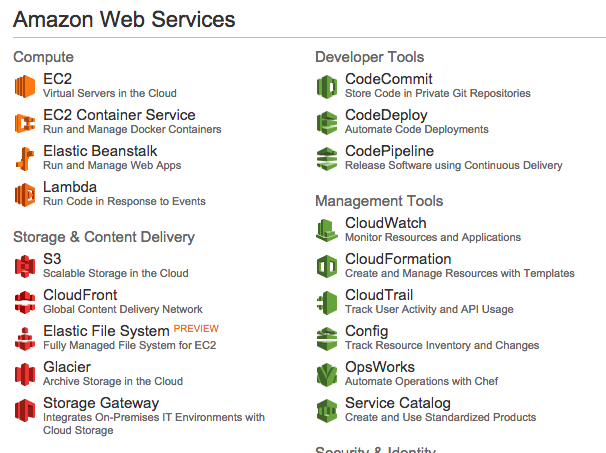
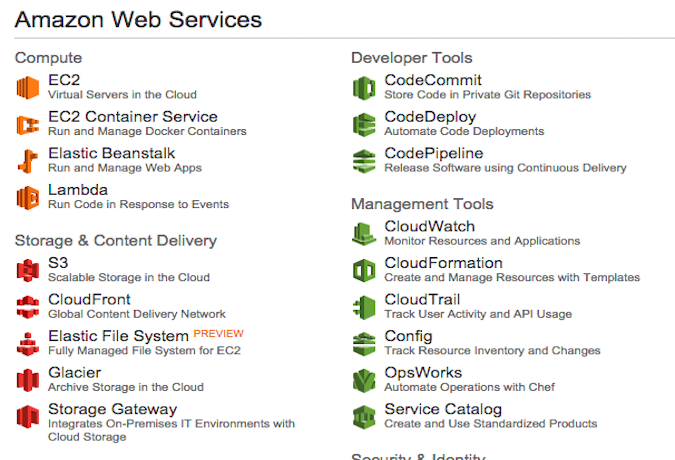
fix: diff browser...
* safari sluggish: changing the opacity of background image caused this
  issue
* firefox pic size: resized the pics

diff --git a/dist/css/myapp.css b/dist/css/myapp.css
@@ -1,1 +1,1 @@
-article,aside,details,figcaption,figure,footer,header,hgroup,main,nav,section,summary{display:block}audio,canvas,video{display:inline-block}audio:not([controls]){display:none;height:0}[hidden]{display:none}html{font-family:sans-serif;-ms-text-size-adjust:100%;-webkit-text-size-adjust:100%}body{margin:0}a:focus{outline:thin dotted}a:active,a:hover{outline:0}h1{font-size:2em;margin:.67em 0}abbr[title]{border-bottom:1px dotted}b,strong{font-weight:700}dfn{font-style:italic}hr{box-sizing:content-box;height:0}mark{background:#ff0;color:#000}code,kbd,pre,samp{font-family:monospace;font-size:1em}pre{white-space:pre-wrap}q{quotes:"\201C" "\201D" "\2018" "\2019"}small{font-size:80%}sub,sup{font-size:75%;line-height:0;position:relative;vertical-align:baseline}sup{top:-.5em}sub{bottom:-.25em}img{border:0}svg:not(:root){overflow:hidden}figure{margin:0}fieldset{border:1px solid silver;margin:0 2px;padding:.35em .625em .75em}legend{border:0;padding:0}button,input,select,textarea{font-family:inherit;font-size:100%;margin:0}button,input{line-height:normal}button,select{text-transform:none}button,html input[type=button],input[type=reset],input[type=submit]{-webkit-appearance:button;cursor:pointer}button[disabled],html input[disabled]{cursor:default}input[type=checkbox],input[type=radio]{box-sizing:border-box;padding:0}input[type=search]{-webkit-appearance:textfield;box-sizing:content-box}input[type=search]::-webkit-search-cancel-button,input[type=search]::-webkit-search-decoration{-webkit-appearance:none}button::-moz-focus-inner,input::-moz-focus-inner{border:0;padding:0}textarea{overflow:auto;vertical-align:top}table{border-collapse:collapse;border-spacing:0}body{font:100% Lucida Grande,Helvetica,Arial,sans-serif}.parallax{-webkit-perspective:300px;perspective:300px;overflow-y:auto;overflow-x:hidden}.parallax,.parallax .group{height:100vh;-webkit-transform-style:preserve-3d;transform-style:preserve-3d}.parallax .group{position:relative}.parallax .group .layer{position:absolute;top:0;left:0;bottom:0;right:0}.parallax .group .layer .content{position:absolute;left:50%;top:50%;text-align:center;-webkit-transform:translate(-50%,-50%);transform:translate(-50%,-50%)}.parallax .group .fore{-webkit-transform:translateZ(100px) scale(0.67);transform:translateZ(100px) scale(0.67)}.parallax .group .base{-webkit-transform:translateZ(0);transform:translateZ(0)}.parallax .group .back{-webkit-transform:translateZ(-100px) scale(1.33);transform:translateZ(-100px) scale(1.33)}.parallax .group .deep{-webkit-transform:translateZ(-300px) scale(2);transform:translateZ(-300px) scale(2)}body,html{overflow:hidden}#group2{z-index:1;height:50vh}#group2 .base{background-color:#000}#group3{z-index:2}#group3 .base{background-color:#f4d0ac}#group4{z-index:1}#group4 .deep{background-color:#00b3ff}#group5{z-index:2}#group5 .base{background-color:#e67e22}#group6{z-index:1}#group6 .deep{background-color:#9b59b6}#group7{z-index:2}#group7 .base{background-color:#2ecc71}#group8{z-index:1}#group8 .deep{background-color:#3498db}.debug{position:fixed;top:0;left:.5em;z-index:3;background:rgba(0,0,0,.85);color:#fff;padding:.5em;border-radius:0 0 5px 5px}.debug-on #app{background-color:#fff}.debug-on .group{-webkit-transform:translate3d(800px,0,-800px) rotateY(30deg);transform:translate3d(700px,0,-800px) rotateY(30deg)}.debug-on .layer{box-shadow:0 0 0 2px #000;opacity:.9}.group{transition:-webkit-transform .5s;transition:transform .5s}#projects{list-style:none;position:relative;overflow:hidden;height:500px;height:80vh;width:100%}#projects>li{width:100%;height:100%;position:absolute;-webkit-perspective:100pc;perspective:100pc}#projects>li .description{position:relative;width:45%;padding:2em 1em;font-size:1.5em;z-index:4;opacity:0}#projects>li .description h2{font-size:2em}#projects>li .pics{visibility:hidden;position:absolute;left:50%;top:50%;width:50%;-webkit-transform-style:preserve-3d;transform-style:preserve-3d;-webkit-transform:translateY(-50%) rotateX(60deg) rotateZ(35deg);transform:translateY(-50%) rotateX(60deg) rotateZ(35deg)}#projects>li .pics a{outline:1px solid transparent}#projects>li .pics a,#projects>li .pics a>img{display:block;max-width:100%;margin:0 auto}#projects>li .pics a:first-child{margin-bottom:30px}#projects>li .pics.row a{width:48%;margin:0}#projects>li .pics.row a:nth-child(2){position:absolute;left:52%;top:0}#projects .description{transition:opacity 4s}#projects .show .pics{visibility:visible}#projects .show .description{opacity:1}#projects .hide .description{opacity:0}#projects .moveUpOut .pics a{-webkit-animation:i 1.5s both;animation:i 1.5s both}#projects .moveDownOut .pics a:nth-child(2),#projects .moveUpOut .pics a:nth-child(2){-webkit-animation-delay:.25s;animation-delay:.25s}#projects .moveUpIn .pics a{-webkit-animation:j 1.5s .5s both;animation:j 1.5s .5s both}#projects .moveDownIn .pics a:nth-child(2),#projects .moveUpIn .pics a:nth-child(2){-webkit-animation-delay:.75s;animation-delay:.75s}#projects .moveDownOut .pics a{-webkit-animation:k 1.5s both;animation:k 1.5s both}#projects .moveDownIn .pics a{-webkit-animation:l 1.5s .5s both;animation:l 1.5s .5s both}#projects .slideLeftOut .pics a{-webkit-animation:a 1.5s both;animation:a 1.5s both}#projects .slideLeftIn .pics a{-webkit-animation:e 1.5s .5s both;animation:e 1.5s .5s both}#projects .slideRightOut .pics a{-webkit-animation:b 1.5s both;animation:b 1.5s both}#projects .slideRightIn .pics a{-webkit-animation:f 1.5s .5s both;animation:f 1.5s .5s both}#projects .slideUpOut .pics a{-webkit-animation:c 1.5s both;animation:c 1.5s both}#projects .slideUpIn .pics a{-webkit-animation:g 1.5s .5s both;animation:g 1.5s .5s both}#projects .slideRightIn .pics.col a:nth-child(2),#projects .slideRightIn .pics.row a:first-child{-webkit-animation-delay:.75s;animation-delay:.75s}#projects .slideRightOut .pics.col a:nth-child(2),#projects .slideRightOut .pics.row a:first-child{-webkit-animation-delay:.25s;animation-delay:.25s}#projects .slideLeftIn .pics a:nth-child(2){-webkit-animation-delay:.75s;animation-delay:.75s}#projects .slideLeftOut .pics a:nth-child(2){-webkit-animation-delay:.25s;animation-delay:.25s}#projects .slideUpIn .pics a:nth-child(2){-webkit-animation-delay:.75s;animation-delay:.75s}#projects .slideUpOut .pics a:nth-child(2){-webkit-animation-delay:.25s;animation-delay:.25s}#projects .slideDownIn .pics a{-webkit-animation:h 1.5s .5s both;animation:h 1.5s .5s both}#projects .slideDownIn .pics.col a:first-child,#projects .slideDownIn .pics.row a:nth-child(2){-webkit-animation-delay:.75s;animation-delay:.75s}#projects .slideDownOut .pics a{-webkit-animation:d 1.5s both;animation:d 1.5s both}#projects .slideDownOut .pics.col a:first-child,#projects .slideDownOut .pics.row a:nth-child(2){-webkit-animation-delay:.25s;animation-delay:.25s}#projects .cubic{-webkit-animation-timing-function:cubic-bezier(1,0,0,1);animation-timing-function:cubic-bezier(1,0,0,1)}@-webkit-keyframes a{0%{-webkit-transform:translateX(0px);transform:translateX(0px)}25%{-webkit-transform:translateX(30px);transform:translateX(30px);-webkit-animation-timing-function:cubic-bezier(1,0,0,1);animation-timing-function:cubic-bezier(1,0,0,1)}to{-webkit-transform:translateX(-3000px);transform:translateX(-3000px)}}@keyframes a{0%{-webkit-transform:translateX(0px);transform:translateX(0px)}25%{-webkit-transform:translateX(30px);transform:translateX(30px);-webkit-animation-timing-function:cubic-bezier(1,0,0,1);animation-timing-function:cubic-bezier(1,0,0,1)}to{-webkit-transform:translateX(-3000px);transform:translateX(-3000px)}}@-webkit-keyframes b{0%{-webkit-transform:translateX(0px);transform:translateX(0px)}25%{-webkit-transform:translateX(-30px);transform:translateX(-30px);-webkit-animation-timing-function:cubic-bezier(1,0,0,1);animation-timing-function:cubic-bezier(1,0,0,1)}to{-webkit-transform:translateX(3000px);transform:translateX(3000px)}}@keyframes b{0%{-webkit-transform:translateX(0px);transform:translateX(0px)}25%{-webkit-transform:translateX(-30px);transform:translateX(-30px);-webkit-animation-timing-function:cubic-bezier(1,0,0,1);animation-timing-function:cubic-bezier(1,0,0,1)}to{-webkit-transform:translateX(3000px);transform:translateX(3000px)}}@-webkit-keyframes c{0%{-webkit-transform:translateY(0px);transform:translateY(0px)}25%{-webkit-transform:translateY(30px);transform:translateY(30px);-webkit-animation-timing-function:cubic-bezier(1,0,0,1);animation-timing-function:cubic-bezier(1,0,0,1)}to{-webkit-transform:translateY(-3000px);transform:translateY(-3000px)}}@keyframes c{0%{-webkit-transform:translateY(0px);transform:translateY(0px)}25%{-webkit-transform:translateY(30px);transform:translateY(30px);-webkit-animation-timing-function:cubic-bezier(1,0,0,1);animation-timing-function:cubic-bezier(1,0,0,1)}to{-webkit-transform:translateY(-3000px);transform:translateY(-3000px)}}@-webkit-keyframes d{0%{-webkit-transform:translateY(0px);transform:translateY(0px)}25%{-webkit-transform:translateY(-30px);transform:translateY(-30px);-webkit-animation-timing-function:cubic-bezier(1,0,0,1);animation-timing-function:cubic-bezier(1,0,0,1)}to{-webkit-transform:translateY(3000px);transform:translateY(3000px)}}@keyframes d{0%{-webkit-transform:translateY(0px);transform:translateY(0px)}25%{-webkit-transform:translateY(-30px);transform:translateY(-30px);-webkit-animation-timing-function:cubic-bezier(1,0,0,1);animation-timing-function:cubic-bezier(1,0,0,1)}to{-webkit-transform:translateY(3000px);transform:translateY(3000px)}}@-webkit-keyframes e{0%{-webkit-transform:translateX(3000px);transform:translateX(3000px);-webkit-animation-timing-function:cubic-bezier(1,0,0,1);animation-timing-function:cubic-bezier(1,0,0,1)}75%{-webkit-transform:translateX(-30px);transform:translateX(-30px)}to{-webkit-transform:translateX(0px);transform:translateX(0px)}}@keyframes e{0%{-webkit-transform:translateX(3000px);transform:translateX(3000px);-webkit-animation-timing-function:cubic-bezier(1,0,0,1);animation-timing-function:cubic-bezier(1,0,0,1)}75%{-webkit-transform:translateX(-30px);transform:translateX(-30px)}to{-webkit-transform:translateX(0px);transform:translateX(0px)}}@-webkit-keyframes f{0%{-webkit-transform:translateX(-3000px);transform:translateX(-3000px);-webkit-animation-timing-function:cubic-bezier(1,0,0,1);animation-timing-function:cubic-bezier(1,0,0,1)}75%{-webkit-transform:translateX(30px);transform:translateX(30px)}to{-webkit-transform:translateX(0px);transform:translateX(0px)}}@keyframes f{0%{-webkit-transform:translateX(-3000px);transform:translateX(-3000px);-webkit-animation-timing-function:cubic-bezier(1,0,0,1);animation-timing-function:cubic-bezier(1,0,0,1)}75%{-webkit-transform:translateX(30px);transform:translateX(30px)}to{-webkit-transform:translateX(0px);transform:translateX(0px)}}@-webkit-keyframes g{0%{-webkit-transform:translateY(3000px);transform:translateY(3000px);-webkit-animation-timing-function:cubic-bezier(1,0,0,1);animation-timing-function:cubic-bezier(1,0,0,1)}85%{-webkit-transform:translateY(-30px);transform:translateY(-30px)}to{-webkit-transform:translateY(0px);transform:translateY(0px)}}@keyframes g{0%{-webkit-transform:translateY(3000px);transform:translateY(3000px);-webkit-animation-timing-function:cubic-bezier(1,0,0,1);animation-timing-function:cubic-bezier(1,0,0,1)}85%{-webkit-transform:translateY(-30px);transform:translateY(-30px)}to{-webkit-transform:translateY(0px);transform:translateY(0px)}}@-webkit-keyframes h{0%{-webkit-transform:translateY(-3000px);transform:translateY(-3000px);-webkit-animation-timing-function:cubic-bezier(1,0,0,1);animation-timing-function:cubic-bezier(1,0,0,1)}85%{-webkit-transform:translateY(30px);transform:translateY(30px)}to{-webkit-transform:translateY(0px);transform:translateY(0px)}}@keyframes h{0%{-webkit-transform:translateY(-3000px);transform:translateY(-3000px);-webkit-animation-timing-function:cubic-bezier(1,0,0,1);animation-timing-function:cubic-bezier(1,0,0,1)}85%{-webkit-transform:translateY(30px);transform:translateY(30px)}to{-webkit-transform:translateY(0px);transform:translateY(0px)}}@-webkit-keyframes i{0%{-webkit-transform:translateZ(0px);transform:translateZ(0px)}25%{-webkit-animation-timing-function:cubic-bezier(1,0,0,1);animation-timing-function:cubic-bezier(1,0,0,1);-webkit-transform:translateZ(-30px);transform:translateZ(-30px)}to{-webkit-transform:translateZ(3000px);transform:translateZ(3000px)}}@keyframes i{0%{-webkit-transform:translateZ(0px);transform:translateZ(0px)}25%{-webkit-animation-timing-function:cubic-bezier(1,0,0,1);animation-timing-function:cubic-bezier(1,0,0,1);-webkit-transform:translateZ(-30px);transform:translateZ(-30px)}to{-webkit-transform:translateZ(3000px);transform:translateZ(3000px)}}@-webkit-keyframes j{0%{animatin-timing-function:cubic-bezier(1,0,0,1);-webkit-transform:translateZ(-3000px);transform:translateZ(-3000px)}75%{-webkit-transform:translateZ(30px);transform:translateZ(30px)}to{-webkit-transform:translateZ(0px);transform:translateZ(0px)}}@keyframes j{0%{animatin-timing-function:cubic-bezier(1,0,0,1);-webkit-transform:translateZ(-3000px);transform:translateZ(-3000px)}75%{-webkit-transform:translateZ(30px);transform:translateZ(30px)}to{-webkit-transform:translateZ(0px);transform:translateZ(0px)}}@-webkit-keyframes k{0%{-webkit-transform:translateZ(0px);transform:translateZ(0px)}25%{-webkit-animation-timing-function:cubic-bezier(1,0,0,1);animation-timing-function:cubic-bezier(1,0,0,1);-webkit-transform:translateZ(30px);transform:translateZ(30px)}to{-webkit-transform:translateZ(-3000px);transform:translateZ(-3000px)}}@keyframes k{0%{-webkit-transform:translateZ(0px);transform:translateZ(0px)}25%{-webkit-animation-timing-function:cubic-bezier(1,0,0,1);animation-timing-function:cubic-bezier(1,0,0,1);-webkit-transform:translateZ(30px);transform:translateZ(30px)}to{-webkit-transform:translateZ(-3000px);transform:translateZ(-3000px)}}@-webkit-keyframes l{0%{-webkit-animation-timing-function:cubic-bezier(1,0,0,1);animation-timing-function:cubic-bezier(1,0,0,1);-webkit-transform:translateZ(3000px);transform:translateZ(3000px)}75%{-webkit-transform:translateZ(-30px);transform:translateZ(-30px)}to{-webkit-transform:translateZ(0px);transform:translateZ(0px)}}@keyframes l{0%{-webkit-animation-timing-function:cubic-bezier(1,0,0,1);animation-timing-function:cubic-bezier(1,0,0,1);-webkit-transform:translateZ(3000px);transform:translateZ(3000px)}75%{-webkit-transform:translateZ(-30px);transform:translateZ(-30px)}to{-webkit-transform:translateZ(0px);transform:translateZ(0px)}}#slideshow nav{text-align:center;margin-top:20px}#slideshow nav span{display:inline-block;width:60px;height:5px;border-top:15px solid transparent;border-bottom:15px solid transparent;background-clip:padding-box;background-color:#ddd;cursor:pointer;margin:0 3px;transition:background-color .2s}#slideshow nav span:hover{background-color:#333}#slideshow nav span.current{background-color:#aaa}.common .pics{position:absolute;right:47%;top:50%;padding-left:10%;-webkit-transform:translateY(-50%);transform:translateY(-50%)}.common .pics img{max-width:100%;max-height:80vh;border:10px solid rgba(236,240,241,.6);border-radius:5%}.common .description{font-size:1.3em;width:35%;position:absolute;top:50%;left:60%;-webkit-transform:translateY(-50%);transform:translateY(-50%)}#app{background-color:#2c3e50;color:#fff}
+article,aside,details,figcaption,figure,footer,header,hgroup,main,nav,section,summary{display:block}audio,canvas,video{display:inline-block}audio:not([controls]){display:none;height:0}[hidden]{display:none}html{font-family:sans-serif;-ms-text-size-adjust:100%;-webkit-text-size-adjust:100%}body{margin:0}a:focus{outline:thin dotted}a:active,a:hover{outline:0}h1{font-size:2em;margin:.67em 0}abbr[title]{border-bottom:1px dotted}b,strong{font-weight:700}dfn{font-style:italic}hr{box-sizing:content-box;height:0}mark{background:#ff0;color:#000}code,kbd,pre,samp{font-family:monospace;font-size:1em}pre{white-space:pre-wrap}q{quotes:"\201C" "\201D" "\2018" "\2019"}small{font-size:80%}sub,sup{font-size:75%;line-height:0;position:relative;vertical-align:baseline}sup{top:-.5em}sub{bottom:-.25em}img{border:0}svg:not(:root){overflow:hidden}figure{margin:0}fieldset{border:1px solid silver;margin:0 2px;padding:.35em .625em .75em}legend{border:0;padding:0}button,input,select,textarea{font-family:inherit;font-size:100%;margin:0}button,input{line-height:normal}button,select{text-transform:none}button,html input[type=button],input[type=reset],input[type=submit]{-webkit-appearance:button;cursor:pointer}button[disabled],html input[disabled]{cursor:default}input[type=checkbox],input[type=radio]{box-sizing:border-box;padding:0}input[type=search]{-webkit-appearance:textfield;box-sizing:content-box}input[type=search]::-webkit-search-cancel-button,input[type=search]::-webkit-search-decoration{-webkit-appearance:none}button::-moz-focus-inner,input::-moz-focus-inner{border:0;padding:0}textarea{overflow:auto;vertical-align:top}table{border-collapse:collapse;border-spacing:0}body{font:100% Lucida Grande,Helvetica,Arial,sans-serif}.parallax{height:500px;height:100vh;-webkit-perspective:300px;perspective:300px;overflow-y:auto;overflow-x:hidden}.parallax,.parallax .group{-webkit-transform-style:preserve-3d;transform-style:preserve-3d}.parallax .group{position:relative;heigth:500px;height:100vh}.parallax .group .layer{position:absolute;top:0;left:0;bottom:0;right:0}.parallax .group .fore{-webkit-transform:translateZ(100px) scale(0.67);transform:translateZ(100px) scale(0.67)}.parallax .group .base{-webkit-transform:translateZ(0);transform:translateZ(0)}.parallax .group .back{-webkit-transform:translateZ(-100px) scale(1.33);transform:translateZ(-100px) scale(1.33)}.parallax .group .deep{-webkit-transform:translateZ(-300px) scale(2);transform:translateZ(-300px) scale(2)}body,html{overflow:hidden}#group1{z-index:2}#group1 .base{-webkit-transform:translateZ(-60px) scale(1.2);transform:translateZ(-60px) scale(1.2)}#group1 .bottom{background-image:url(../img/mt_blur.jpg);background-size:100% 500px;background-size:100vw 100vh}#group2{z-index:1;height:50vh}#group2 .base{background-color:#000}#group3{z-index:2}#group3 .base{background-color:#f4d0ac}#group4{z-index:1}#group4 .deep{background-color:#00b3ff}#group5{z-index:2}#group5 .base{background-color:#e67e22}#group6{z-index:1}#group6 .deep{background-color:#9b59b6}#group7{z-index:2}#group7 .base{background-color:#2ecc71}#group8{z-index:1}#group8 .deep{background-color:#3498db}.debug{position:fixed;top:0;left:.5em;z-index:3;background:rgba(0,0,0,.85);color:#fff;padding:.5em;border-radius:0 0 5px 5px}.debug-on #app{background-color:#fff}.debug-on .group{-webkit-transform:translate3d(800px,0,-800px) rotateY(30deg);transform:translate3d(700px,0,-800px) rotateY(30deg)}.debug-on .layer{box-shadow:0 0 0 2px #000;opacity:.9}.group{transition:-webkit-transform .5s;transition:transform .5s}#projects{list-style:none;position:relative;overflow:hidden;height:500px;height:80vh;width:100%}#projects>li{width:100%;height:100%;position:absolute;-webkit-perspective:100pc;perspective:100pc}#projects>li .description{position:relative;width:45%;padding:2em 1em;font-size:1.5em;z-index:4;opacity:0}#projects>li .description h2{font-size:2em}#projects>li .pics{visibility:hidden;position:absolute;left:50%;top:50%;width:50%;-webkit-transform-style:preserve-3d;transform-style:preserve-3d;-webkit-transform:translateY(-50%) rotateX(60deg) rotateZ(35deg);transform:translateY(-50%) rotateX(60deg) rotateZ(35deg)}#projects>li .pics a{outline:1px solid transparent}#projects>li .pics a,#projects>li .pics a>img{display:block;max-width:100%;margin:0 auto}#projects>li .pics a:first-child{margin-bottom:30px}#projects>li .pics.row a{width:48%;margin:0}#projects>li .pics.row a:nth-child(2){position:absolute;left:52%;top:0}#projects .description{transition:opacity 4s}#projects .show .pics{visibility:visible}#projects .show .description{opacity:1}#projects .hide .description{opacity:0}#projects .moveUpOut .pics a{-webkit-animation:i 1.5s both;animation:i 1.5s both}#projects .moveDownOut .pics a:nth-child(2),#projects .moveUpOut .pics a:nth-child(2){-webkit-animation-delay:.25s;animation-delay:.25s}#projects .moveUpIn .pics a{-webkit-animation:j 1.5s .5s both;animation:j 1.5s .5s both}#projects .moveDownIn .pics a:nth-child(2),#projects .moveUpIn .pics a:nth-child(2){-webkit-animation-delay:.75s;animation-delay:.75s}#projects .moveDownOut .pics a{-webkit-animation:k 1.5s both;animation:k 1.5s both}#projects .moveDownIn .pics a{-webkit-animation:l 1.5s .5s both;animation:l 1.5s .5s both}#projects .slideLeftOut .pics a{-webkit-animation:a 1.5s both;animation:a 1.5s both}#projects .slideLeftIn .pics a{-webkit-animation:e 1.5s .5s both;animation:e 1.5s .5s both}#projects .slideRightOut .pics a{-webkit-animation:b 1.5s both;animation:b 1.5s both}#projects .slideRightIn .pics a{-webkit-animation:f 1.5s .5s both;animation:f 1.5s .5s both}#projects .slideUpOut .pics a{-webkit-animation:c 1.5s both;animation:c 1.5s both}#projects .slideUpIn .pics a{-webkit-animation:g 1.5s .5s both;animation:g 1.5s .5s both}#projects .slideRightIn .pics.col a:nth-child(2),#projects .slideRightIn .pics.row a:first-child{-webkit-animation-delay:.75s;animation-delay:.75s}#projects .slideRightOut .pics.col a:nth-child(2),#projects .slideRightOut .pics.row a:first-child{-webkit-animation-delay:.25s;animation-delay:.25s}#projects .slideLeftIn .pics a:nth-child(2){-webkit-animation-delay:.75s;animation-delay:.75s}#projects .slideLeftOut .pics a:nth-child(2){-webkit-animation-delay:.25s;animation-delay:.25s}#projects .slideUpIn .pics a:nth-child(2){-webkit-animation-delay:.75s;animation-delay:.75s}#projects .slideUpOut .pics a:nth-child(2){-webkit-animation-delay:.25s;animation-delay:.25s}#projects .slideDownIn .pics a{-webkit-animation:h 1.5s .5s both;animation:h 1.5s .5s both}#projects .slideDownIn .pics.col a:first-child,#projects .slideDownIn .pics.row a:nth-child(2){-webkit-animation-delay:.75s;animation-delay:.75s}#projects .slideDownOut .pics a{-webkit-animation:d 1.5s both;animation:d 1.5s both}#projects .slideDownOut .pics.col a:first-child,#projects .slideDownOut .pics.row a:nth-child(2){-webkit-animation-delay:.25s;animation-delay:.25s}#projects .cubic{-webkit-animation-timing-function:cubic-bezier(1,0,0,1);animation-timing-function:cubic-bezier(1,0,0,1)}@-webkit-keyframes a{0%{-webkit-transform:translateX(0px);transform:translateX(0px)}25%{-webkit-transform:translateX(30px);transform:translateX(30px);-webkit-animation-timing-function:cubic-bezier(1,0,0,1);animation-timing-function:cubic-bezier(1,0,0,1)}to{-webkit-transform:translateX(-3000px);transform:translateX(-3000px)}}@keyframes a{0%{-webkit-transform:translateX(0px);transform:translateX(0px)}25%{-webkit-transform:translateX(30px);transform:translateX(30px);-webkit-animation-timing-function:cubic-bezier(1,0,0,1);animation-timing-function:cubic-bezier(1,0,0,1)}to{-webkit-transform:translateX(-3000px);transform:translateX(-3000px)}}@-webkit-keyframes b{0%{-webkit-transform:translateX(0px);transform:translateX(0px)}25%{-webkit-transform:translateX(-30px);transform:translateX(-30px);-webkit-animation-timing-function:cubic-bezier(1,0,0,1);animation-timing-function:cubic-bezier(1,0,0,1)}to{-webkit-transform:translateX(3000px);transform:translateX(3000px)}}@keyframes b{0%{-webkit-transform:translateX(0px);transform:translateX(0px)}25%{-webkit-transform:translateX(-30px);transform:translateX(-30px);-webkit-animation-timing-function:cubic-bezier(1,0,0,1);animation-timing-function:cubic-bezier(1,0,0,1)}to{-webkit-transform:translateX(3000px);transform:translateX(3000px)}}@-webkit-keyframes c{0%{-webkit-transform:translateY(0px);transform:translateY(0px)}25%{-webkit-transform:translateY(30px);transform:translateY(30px);-webkit-animation-timing-function:cubic-bezier(1,0,0,1);animation-timing-function:cubic-bezier(1,0,0,1)}to{-webkit-transform:translateY(-3000px);transform:translateY(-3000px)}}@keyframes c{0%{-webkit-transform:translateY(0px);transform:translateY(0px)}25%{-webkit-transform:translateY(30px);transform:translateY(30px);-webkit-animation-timing-function:cubic-bezier(1,0,0,1);animation-timing-function:cubic-bezier(1,0,0,1)}to{-webkit-transform:translateY(-3000px);transform:translateY(-3000px)}}@-webkit-keyframes d{0%{-webkit-transform:translateY(0px);transform:translateY(0px)}25%{-webkit-transform:translateY(-30px);transform:translateY(-30px);-webkit-animation-timing-function:cubic-bezier(1,0,0,1);animation-timing-function:cubic-bezier(1,0,0,1)}to{-webkit-transform:translateY(3000px);transform:translateY(3000px)}}@keyframes d{0%{-webkit-transform:translateY(0px);transform:translateY(0px)}25%{-webkit-transform:translateY(-30px);transform:translateY(-30px);-webkit-animation-timing-function:cubic-bezier(1,0,0,1);animation-timing-function:cubic-bezier(1,0,0,1)}to{-webkit-transform:translateY(3000px);transform:translateY(3000px)}}@-webkit-keyframes e{0%{-webkit-transform:translateX(3000px);transform:translateX(3000px);-webkit-animation-timing-function:cubic-bezier(1,0,0,1);animation-timing-function:cubic-bezier(1,0,0,1)}75%{-webkit-transform:translateX(-30px);transform:translateX(-30px)}to{-webkit-transform:translateX(0px);transform:translateX(0px)}}@keyframes e{0%{-webkit-transform:translateX(3000px);transform:translateX(3000px);-webkit-animation-timing-function:cubic-bezier(1,0,0,1);animation-timing-function:cubic-bezier(1,0,0,1)}75%{-webkit-transform:translateX(-30px);transform:translateX(-30px)}to{-webkit-transform:translateX(0px);transform:translateX(0px)}}@-webkit-keyframes f{0%{-webkit-transform:translateX(-3000px);transform:translateX(-3000px);-webkit-animation-timing-function:cubic-bezier(1,0,0,1);animation-timing-function:cubic-bezier(1,0,0,1)}75%{-webkit-transform:translateX(30px);transform:translateX(30px)}to{-webkit-transform:translateX(0px);transform:translateX(0px)}}@keyframes f{0%{-webkit-transform:translateX(-3000px);transform:translateX(-3000px);-webkit-animation-timing-function:cubic-bezier(1,0,0,1);animation-timing-function:cubic-bezier(1,0,0,1)}75%{-webkit-transform:translateX(30px);transform:translateX(30px)}to{-webkit-transform:translateX(0px);transform:translateX(0px)}}@-webkit-keyframes g{0%{-webkit-transform:translateY(3000px);transform:translateY(3000px);-webkit-animation-timing-function:cubic-bezier(1,0,0,1);animation-timing-function:cubic-bezier(1,0,0,1)}85%{-webkit-transform:translateY(-30px);transform:translateY(-30px)}to{-webkit-transform:translateY(0px);transform:translateY(0px)}}@keyframes g{0%{-webkit-transform:translateY(3000px);transform:translateY(3000px);-webkit-animation-timing-function:cubic-bezier(1,0,0,1);animation-timing-function:cubic-bezier(1,0,0,1)}85%{-webkit-transform:translateY(-30px);transform:translateY(-30px)}to{-webkit-transform:translateY(0px);transform:translateY(0px)}}@-webkit-keyframes h{0%{-webkit-transform:translateY(-3000px);transform:translateY(-3000px);-webkit-animation-timing-function:cubic-bezier(1,0,0,1);animation-timing-function:cubic-bezier(1,0,0,1)}85%{-webkit-transform:translateY(30px);transform:translateY(30px)}to{-webkit-transform:translateY(0px);transform:translateY(0px)}}@keyframes h{0%{-webkit-transform:translateY(-3000px);transform:translateY(-3000px);-webkit-animation-timing-function:cubic-bezier(1,0,0,1);animation-timing-function:cubic-bezier(1,0,0,1)}85%{-webkit-transform:translateY(30px);transform:translateY(30px)}to{-webkit-transform:translateY(0px);transform:translateY(0px)}}@-webkit-keyframes i{0%{-webkit-transform:translateZ(0px);transform:translateZ(0px)}25%{-webkit-animation-timing-function:cubic-bezier(1,0,0,1);animation-timing-function:cubic-bezier(1,0,0,1);-webkit-transform:translateZ(-30px);transform:translateZ(-30px)}to{-webkit-transform:translateZ(3000px);transform:translateZ(3000px)}}@keyframes i{0%{-webkit-transform:translateZ(0px);transform:translateZ(0px)}25%{-webkit-animation-timing-function:cubic-bezier(1,0,0,1);animation-timing-function:cubic-bezier(1,0,0,1);-webkit-transform:translateZ(-30px);transform:translateZ(-30px)}to{-webkit-transform:translateZ(3000px);transform:translateZ(3000px)}}@-webkit-keyframes j{0%{animatin-timing-function:cubic-bezier(1,0,0,1);-webkit-transform:translateZ(-3000px);transform:translateZ(-3000px)}75%{-webkit-transform:translateZ(30px);transform:translateZ(30px)}to{-webkit-transform:translateZ(0px);transform:translateZ(0px)}}@keyframes j{0%{animatin-timing-function:cubic-bezier(1,0,0,1);-webkit-transform:translateZ(-3000px);transform:translateZ(-3000px)}75%{-webkit-transform:translateZ(30px);transform:translateZ(30px)}to{-webkit-transform:translateZ(0px);transform:translateZ(0px)}}@-webkit-keyframes k{0%{-webkit-transform:translateZ(0px);transform:translateZ(0px)}25%{-webkit-animation-timing-function:cubic-bezier(1,0,0,1);animation-timing-function:cubic-bezier(1,0,0,1);-webkit-transform:translateZ(30px);transform:translateZ(30px)}to{-webkit-transform:translateZ(-3000px);transform:translateZ(-3000px)}}@keyframes k{0%{-webkit-transform:translateZ(0px);transform:translateZ(0px)}25%{-webkit-animation-timing-function:cubic-bezier(1,0,0,1);animation-timing-function:cubic-bezier(1,0,0,1);-webkit-transform:translateZ(30px);transform:translateZ(30px)}to{-webkit-transform:translateZ(-3000px);transform:translateZ(-3000px)}}@-webkit-keyframes l{0%{-webkit-animation-timing-function:cubic-bezier(1,0,0,1);animation-timing-function:cubic-bezier(1,0,0,1);-webkit-transform:translateZ(3000px);transform:translateZ(3000px)}75%{-webkit-transform:translateZ(-30px);transform:translateZ(-30px)}to{-webkit-transform:translateZ(0px);transform:translateZ(0px)}}@keyframes l{0%{-webkit-animation-timing-function:cubic-bezier(1,0,0,1);animation-timing-function:cubic-bezier(1,0,0,1);-webkit-transform:translateZ(3000px);transform:translateZ(3000px)}75%{-webkit-transform:translateZ(-30px);transform:translateZ(-30px)}to{-webkit-transform:translateZ(0px);transform:translateZ(0px)}}#slideshow nav{text-align:center;margin-top:20px}#slideshow nav span{display:inline-block;width:60px;height:5px;border-top:15px solid transparent;border-bottom:15px solid transparent;background-clip:padding-box;background-color:#ddd;cursor:pointer;margin:0 3px;transition:background-color .2s}#slideshow nav span:hover{background-color:#333}#slideshow nav span.current{background-color:#aaa}.common .pics{position:absolute;right:47%;top:50%;-webkit-transform:translateY(-50%);transform:translateY(-50%)}.common .pics img{max-width:100%;max-height:275px;max-height:55vh;border:10px solid rgba(236,240,241,.6);border-radius:5%}.common .description{font-size:1.3em;width:35%;position:absolute;top:50%;left:60%;-webkit-transform:translateY(-50%);transform:translateY(-50%)}#app{background-color:#2c3e50;color:#fff}

diff --git a/client/styles/less/parallax.less b/client/styles/less/parallax.less
@@ -3,6 +3,7 @@
 */
 .parallax{
   // font-size: 200%;
+  height: 500px;
   height: 100vh;
   perspective: 300px;
   transform-style: preserve-3d;
@@ -11,6 +12,7 @@
 
   .group{
     position: relative;
+    heigth: 500px;
     height: 100vh;
     transform-style: preserve-3d;
 
@@ -20,14 +22,6 @@
       left: 0;
       bottom: 0;
       right: 0;
-
-        .content{
-        position: absolute;
-        left: 50%;
-        top: 50%;
-        text-align: center;
-        transform: translate(-50%, -50%);
-      }
     }
 
     .fore{
@@ -55,25 +49,27 @@ body, html {
 /************
 * First group
 */
-// #group1{
-//   z-index: 3;
+#group1{
+  z-index: 3;
+  // overflow-y: auto;
 
-//   .base{
-//     transform: translateZ(-60px) scale(1.2);
-//   }
+  .base{
+    transform: translateZ(-60px) scale(1.2);
+  }
 
-//   .bottom{
-//     background-image: url(../img/mt_blur.jpg);
-//     background-size: 100% 100%;
-//   }
+  .bottom{
+    background-image: url(../img/mt_blur.jpg);
+    background-size: 100% 500px;
+    background-size: 100vw 100vh;
+  }
 
-//   .surface{
-//     background-image: url(../img/mt.jpg);
-//     background-size: 100% 100%;
-//   }
+  // .surface{
+  //   // background-image: url(../img/mt.jpg);
+  //   background-size: 100vw 100vh;
+  // }
 
 
-// }
+}
 
 /*************
 * Other groups

diff --git a/client/src/views/GroupView.js b/client/src/views/GroupView.js
@@ -37,12 +37,12 @@ var IntroGroup = GroupView.extend({
       return;
     }
 
-    // move pseudo base on z axis
+    // Move surface and bottom together
     this.$el.find('.base').css({
       transform: 'translateZ(' + this.z + 'px) scale(1.2)',
     });
 
-    // change the bg_blur opacity
+    // Change the opacity of surface
     this.$el.find('.surface').css({opacity: this.opacityVal});
 
   },

diff --git a/client/styles/less/commonGroup.less b/client/styles/less/commonGroup.less
@@ -4,12 +4,13 @@
     position: absolute;
     right: 47%;
     top: 50%;
-    padding-left: 10%;
+    // padding-left: 10%;
     transform: translateY(-50%);
 
     img{
       max-width: 100%;
-      max-height: 80vh;
+      max-height: 275px;
+      max-height: 55vh;
       border: 10px solid rgba(236, 240, 241, 0.6);
       border-radius: 5%;
     }
